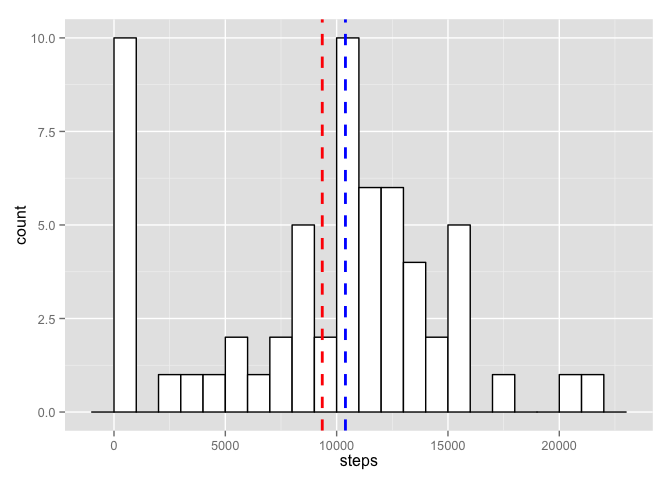
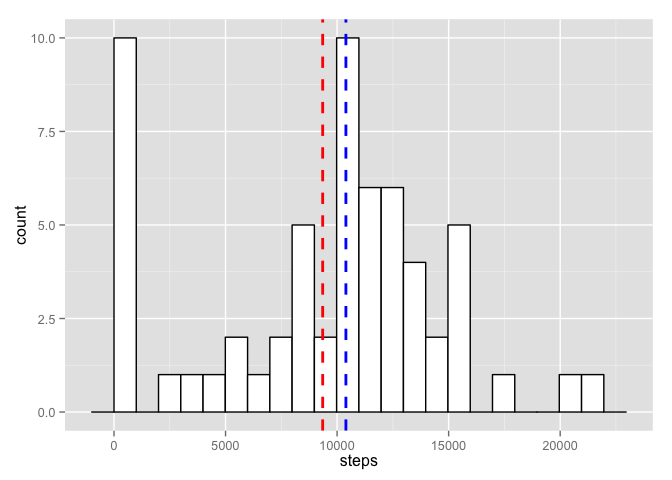
998
To see who might copy without thinking

diff --git a/PA1_template.html b/PA1_template.html
@@ -74,8 +74,8 @@ activity$interval&lt;-as.difftime(activity$interval, units = &quot;mins&quot;)</
 <pre><code>## [1] 10395</code></pre>
 <p>To build our histogram, we use ggplot and add a red dashed line for our mean and a blue dashed line for our median.</p>
 <pre class="r"><code>library(ggplot2)
-ggplot(sumsteps, aes(x=steps)) + geom_histogram(binwidth=1000, color=&quot;black&quot;, fill=&quot;white&quot;)+geom_vline(aes(xintercept=mean(steps, na.rm=TRUE)), color=&quot;red&quot;, linetype=&quot;dashed&quot;, size=1)+geom_vline(aes(xintercept=median(steps, na.rm=TRUE)), color=&quot;blue&quot;, linetype=&quot;dashed&quot;, size=1)</code></pre>
[1 lines of base64/hex data omitted]
+ggplot(sumsteps, aes(x=steps)) + geom_histogram(binwidth=998, color=&quot;black&quot;, fill=&quot;white&quot;)+geom_vline(aes(xintercept=mean(steps, na.rm=TRUE)), color=&quot;red&quot;, linetype=&quot;dashed&quot;, size=1)+geom_vline(aes(xintercept=median(steps, na.rm=TRUE)), color=&quot;blue&quot;, linetype=&quot;dashed&quot;, size=1)</code></pre>
[1 lines of base64/hex data omitted]
 </div>
 <div id="what-is-the-average-daily-activity-pattern" class="section level2">
 <h2>What is the average daily activity pattern?</h2>

diff --git a/PA1_template.md b/PA1_template.md
@@ -42,7 +42,7 @@ To build our histogram, we use ggplot and add a red dashed line for our mean and
 
 ```r
 library(ggplot2)
-ggplot(sumsteps, aes(x=steps)) + geom_histogram(binwidth=1000, color="black", fill="white")+geom_vline(aes(xintercept=mean(steps, na.rm=TRUE)), color="red", linetype="dashed", size=1)+geom_vline(aes(xintercept=median(steps, na.rm=TRUE)), color="blue", linetype="dashed", size=1)
+ggplot(sumsteps, aes(x=steps)) + geom_histogram(binwidth=998, color="black", fill="white")+geom_vline(aes(xintercept=mean(steps, na.rm=TRUE)), color="red", linetype="dashed", size=1)+geom_vline(aes(xintercept=median(steps, na.rm=TRUE)), color="blue", linetype="dashed", size=1)
 ```
 
 ![plot of chunk unnamed-chunk-5](PA1_template_files/figure-html/unnamed-chunk-5.png) 
